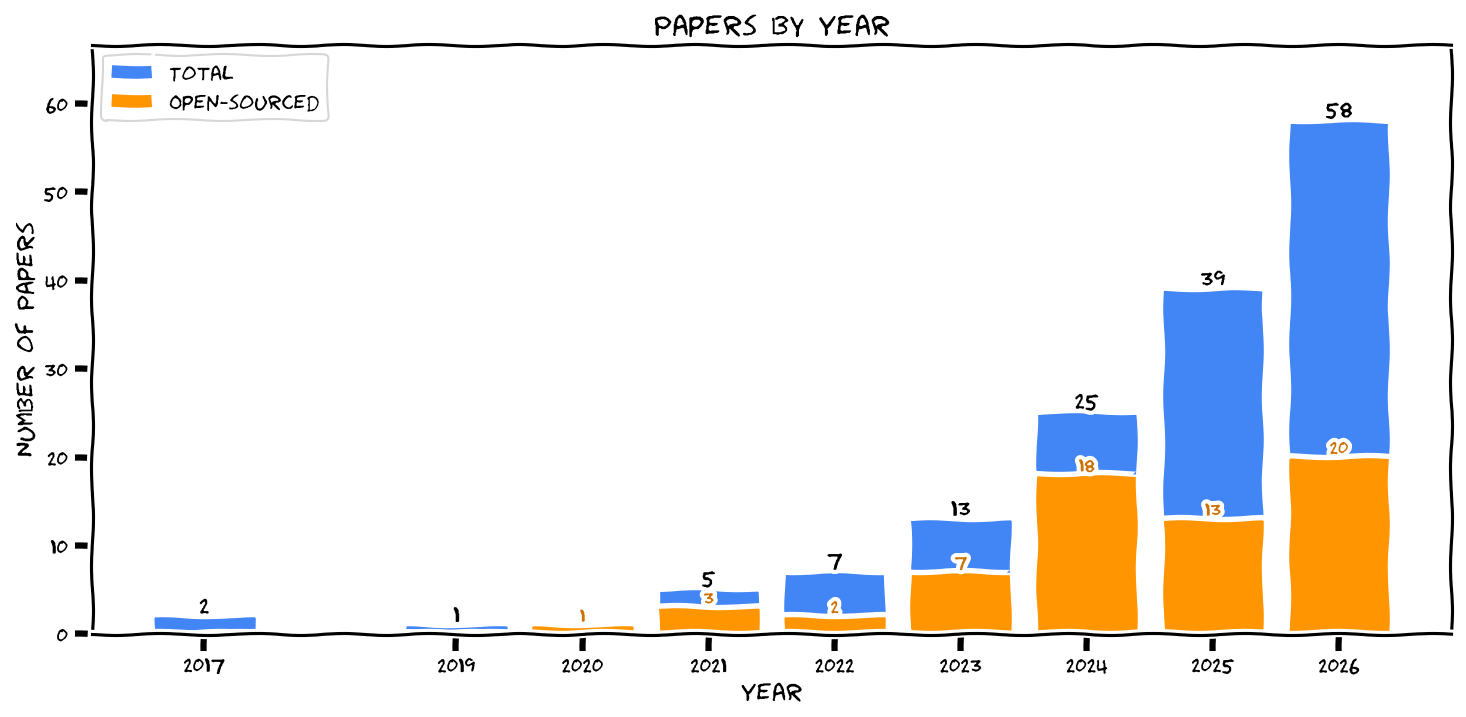
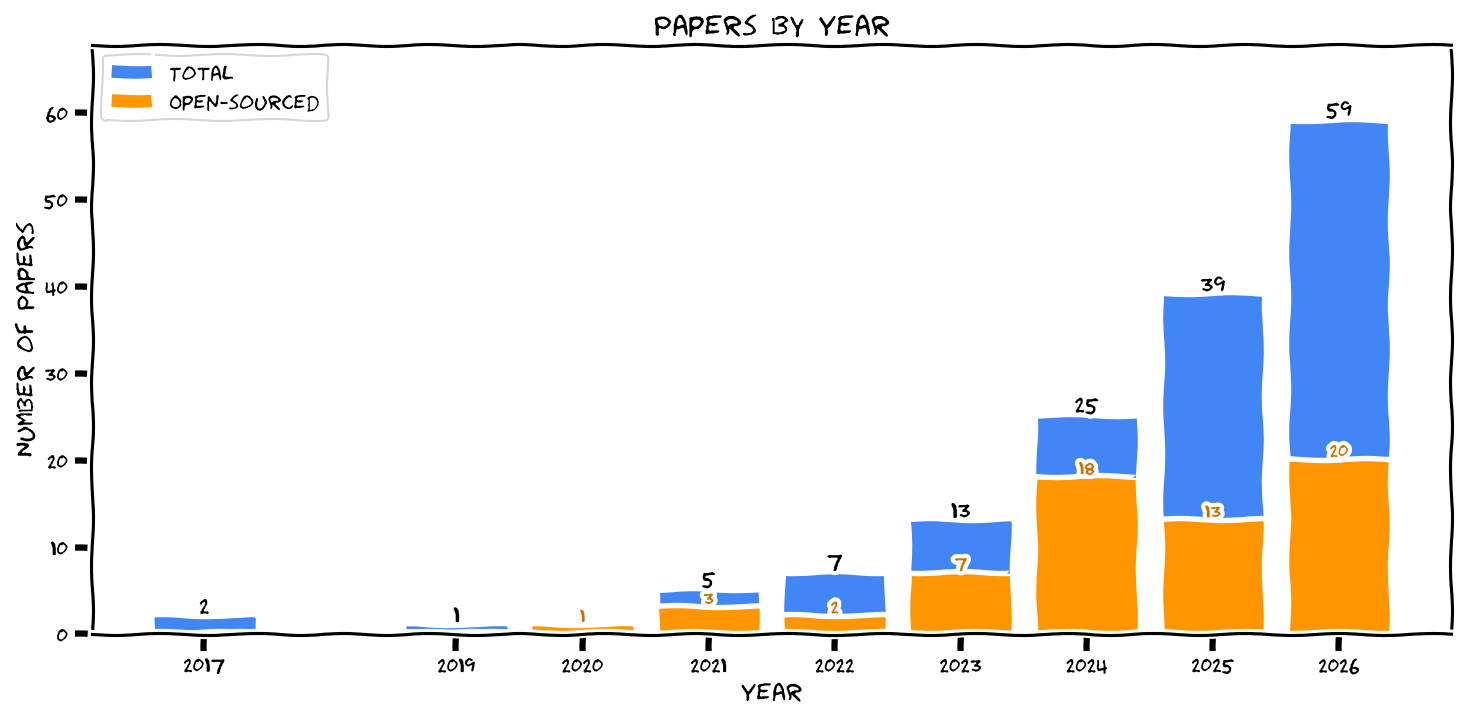
Interesting new paper (#108)
* Interesting stuff

* chore: auto-sort table and generate data

* chore: update papers by year charts

---------

Pull request: Interesting new paper

diff --git a/README.md b/README.md
@@ -3,7 +3,7 @@
 [![Awesome](https://awesome.re/badge.svg)](https://awesome.re)
 
 
-A curated list of 151 awesome papers exploring the use of artificial intelligence / machine learning / deep learning for mathematical discoveries.
+A curated list of 152 awesome papers exploring the use of artificial intelligence / machine learning / deep learning for mathematical discoveries.
 
 See [`CONTRIBUTING.md`](https://github.com/seewoo5/awesome-ai-for-math/blob/main/CONTRIBUTING.md) for contribution.
 
@@ -163,6 +163,7 @@ See [`CONTRIBUTING.md`](https://github.com/seewoo5/awesome-ai-for-math/blob/main
 | **[The Simplicity of Hodge Bundle](https://arxiv.org/abs/2603.19052)** | Algebraic Geometry, LLM | arXiv 2026 | [Chat Logs](https://github.com/google-deepmind/superhuman/tree/main/aletheia) |
 | **[Towards Autonomous Mathematics Research](https://arxiv.org/abs/2602.10177)** | Survey, LLM | arXiv 2026 |  |
 | **[Trees and Graphs with Non Log-concave Dominating Set Sequence via AI Tools](https://arxiv.org/abs/2605.02193)** | Graph Theory, Transformer | arXiv 2026 | [Code](https://github.com/sheilman77/dominating_sets_PatternBoost) |
+| **[Undecidability problems for semifree DG algebras](https://arxiv.org/abs/2605.08122)** | Algebra, Geometric Topology, Logic, Symplectic Geometry, LLM | arXiv 2026 | [Chat Logs](https://github.com/google-deepmind/superhuman/tree/main/aletheia/Kirby) |
 | **[Unsupervised Discovery of Formulas for Mathematical Constants](https://proceedings.neurips.cc/paper_files/paper/2024/hash/cd8b5de90ebfd6df2b703d2346370cba-Abstract-Conference.html)** | Number Theory | NeurIPS 2024 | [Code](https://github.com/RamanujanMachine/Blind-Delta-Algorithm) |
 | **[What makes math problems hard for reinforcement learning: a case study](https://arxiv.org/abs/2408.15332)** | Group Theory, RL, Transformer | arXiv 2024 | [Code](https://github.com/shehper/AC-Solver) |
 